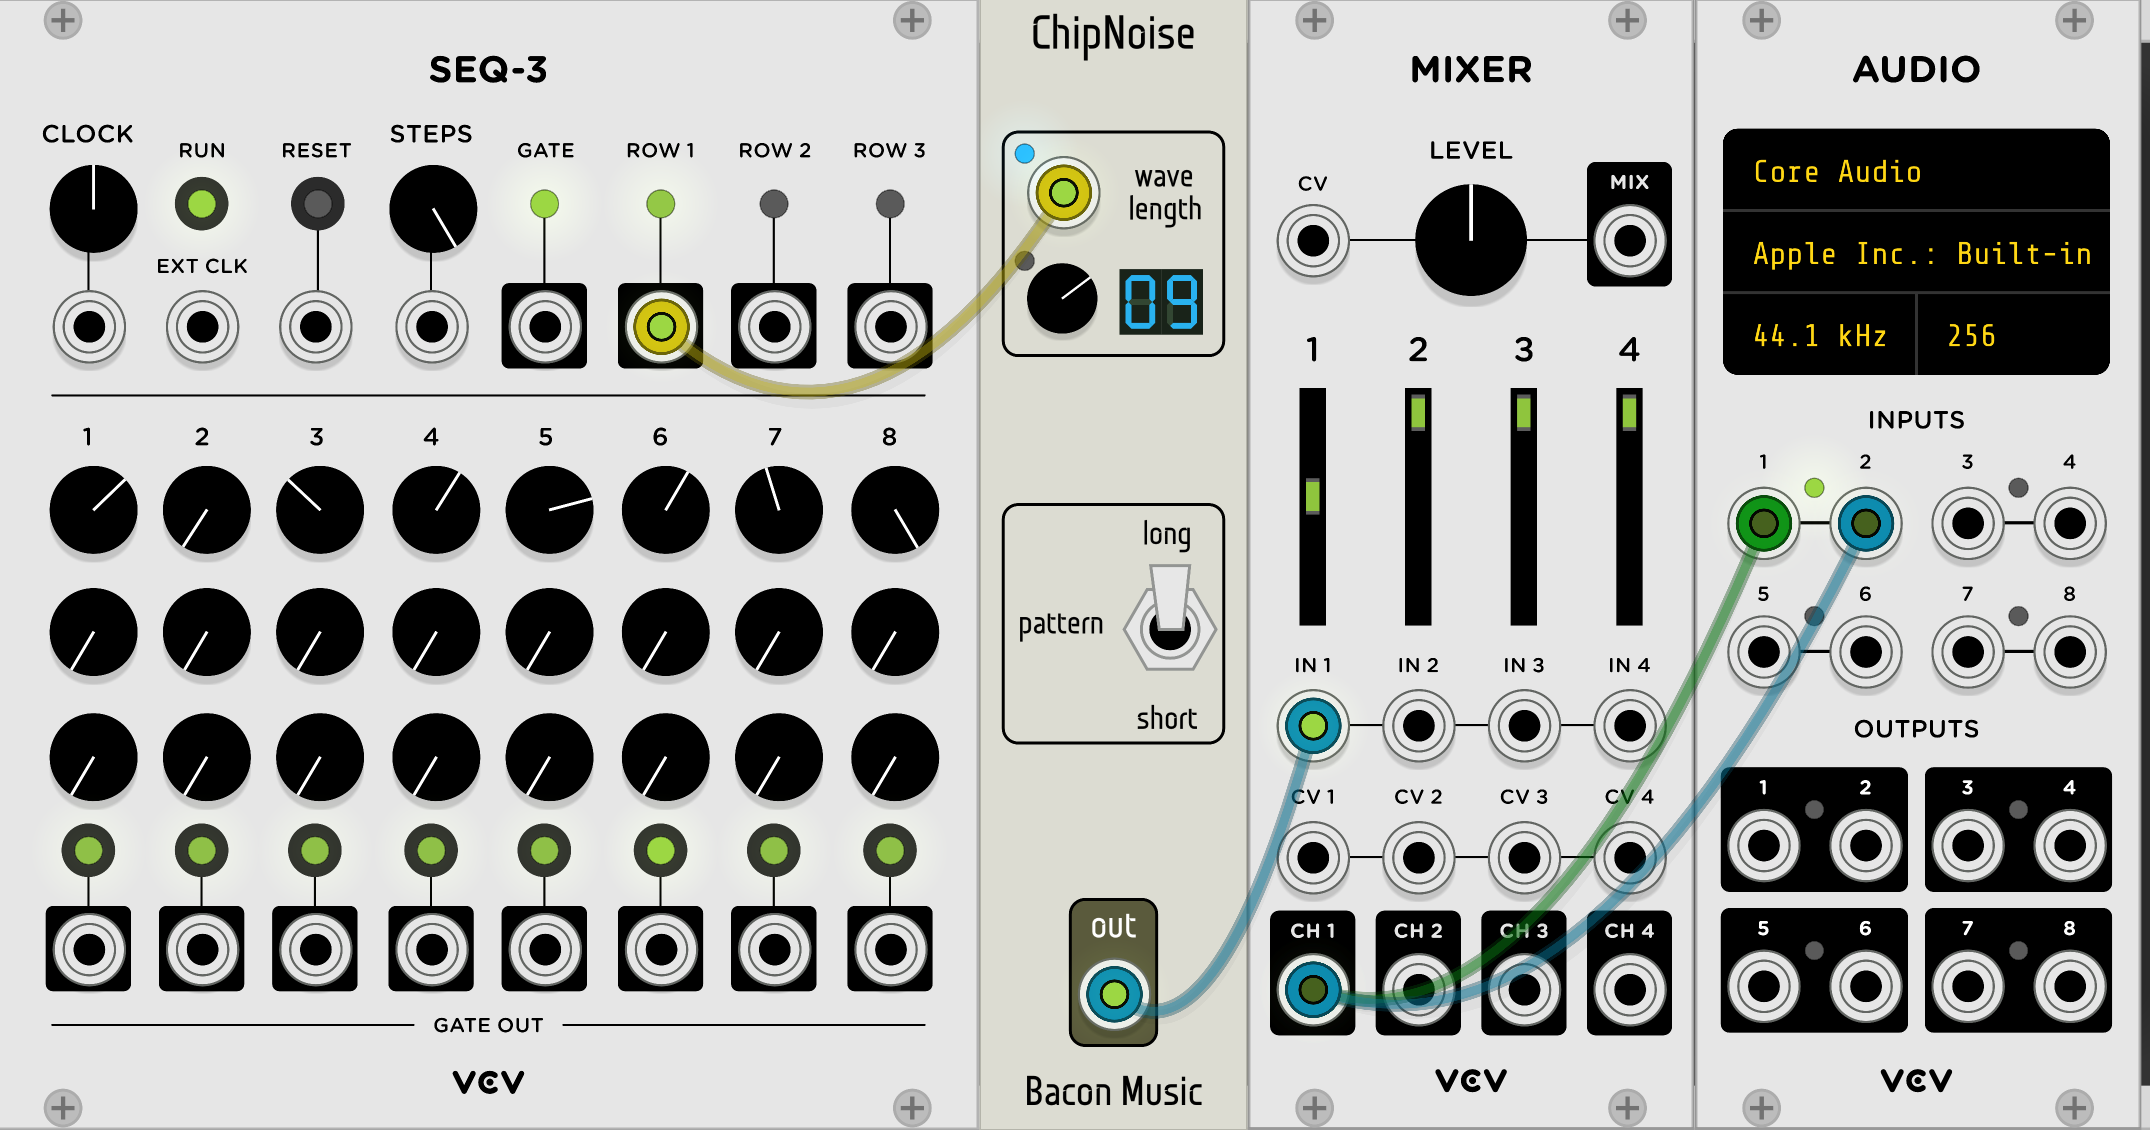
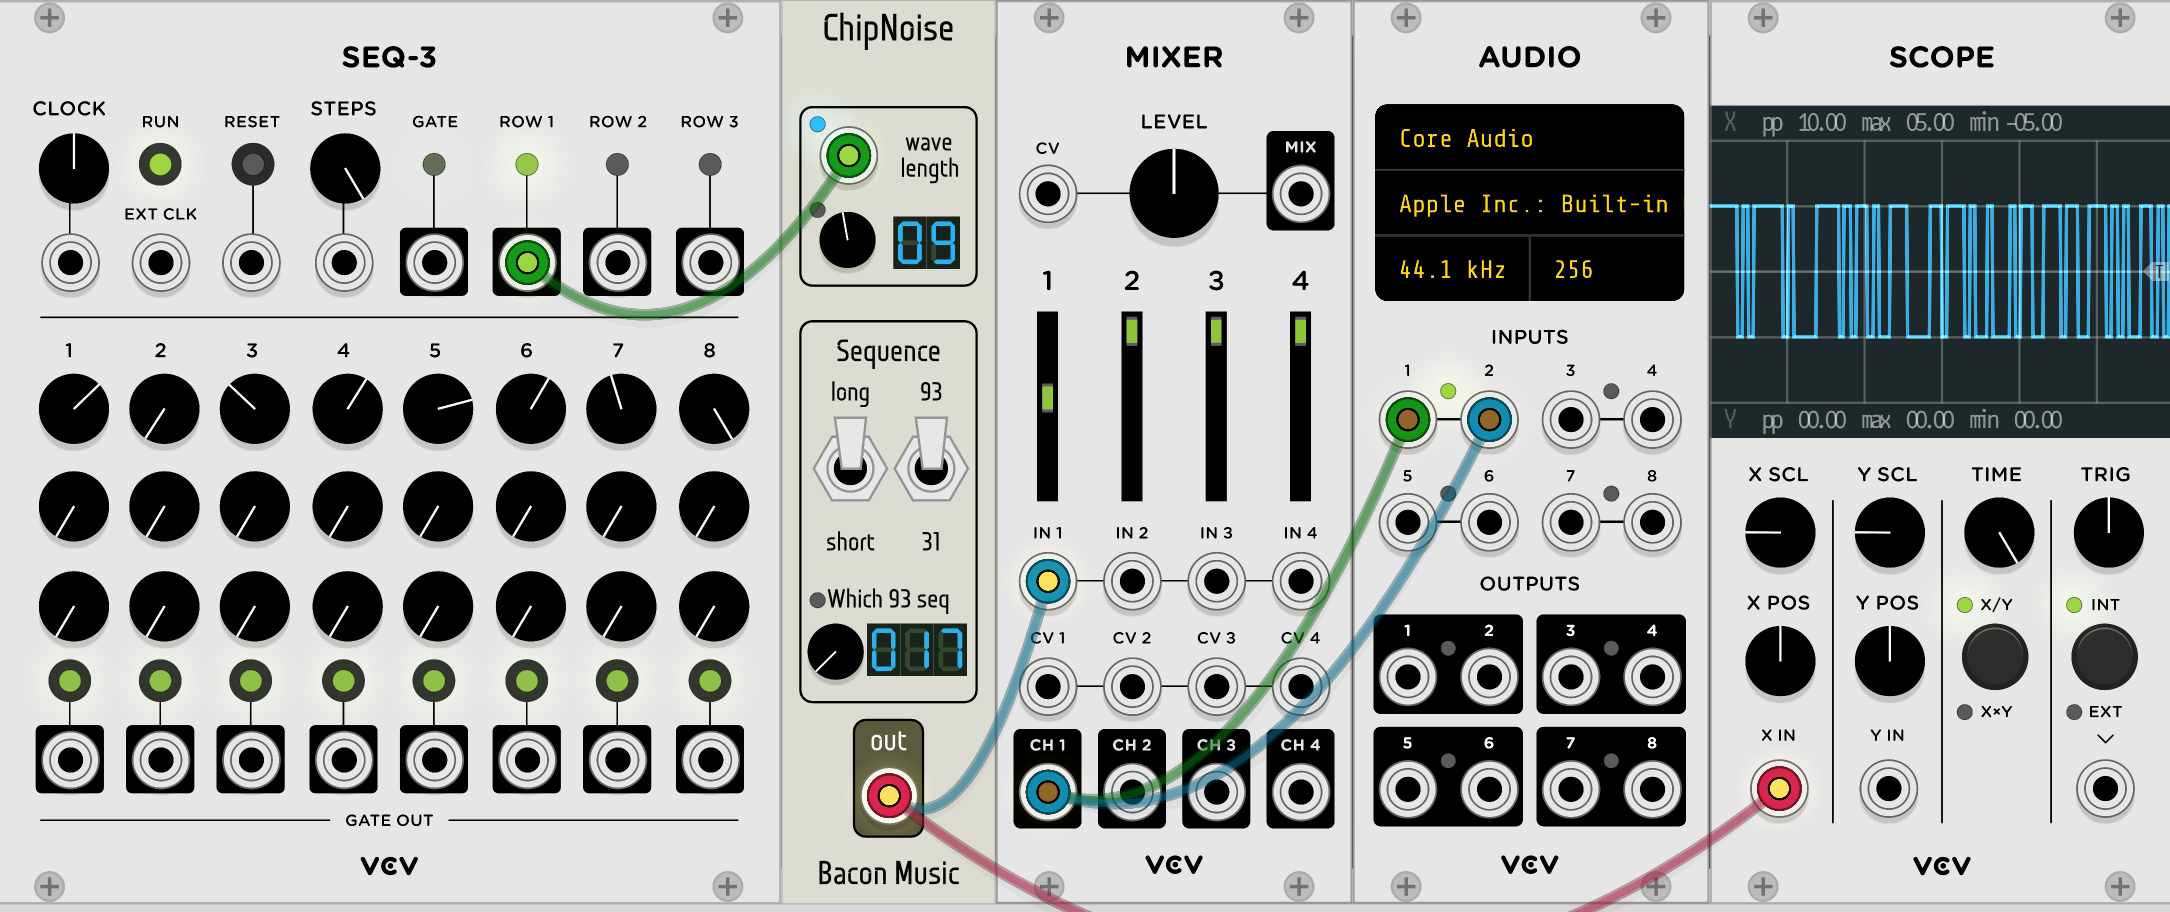
Updated documentation for ChipNoise

diff --git a/README.md b/README.md
@@ -118,14 +118,22 @@ patch runs it mixed along with a VCO-1 so I could check tuning. Here's how I did
 
 ChipNoise implements the NES noise generator without the NES envelope. It would have been
 impossible to implement without the careful description of the noise algorithm at
-[the NES Dev WIKI](http://wiki.nesdev.com/w/index.php/APU_Noise).
+[the NES Dev WIKI](http://wiki.nesdev.com/w/index.php/APU_Noise). I also appreciate the
+[lengthy conversation with @alto77](https://github.com/baconpaul/BaconPlugs/issues/6) which helped
+identify a bug in the 0.6.1 release and add a new feature.
 
 The NES noise system has 16 different frequencies; and two modes. The two modes generate either
-a long pseudo-random pattern or (one of two) short pseudo-random patterns.
+a long pseudo-random pattern or a set of short pseudo-random patterns. That long pattern is just 
+long, but the short patterns are either 93 or 31 bits long. There are 351 distinct 93 bit patterns
+and a single 31 bit pattern. 
 
-The module just outputs the noise with a switch to change the mode and a knob to select the
-frequency. The knob is also exposed to CV. And yes, it really sounds like an NES. Here's a simple
-patch.
+The sequence controls allow you to pick these patterns. If set at "long" then you choose the longest
+pattern. If set at short, then either you have the 31 long pattern or one of the 93 patterns. Which of
+the 93 patterns you pick is chosen by the "which 93 seq" knob. 
+
+This is a lot of information. If you just play with it you'll get the idea.
+
+Here's a simple patch.
 
 <a href="https://baconpaul.github.io/audio/ChipNoise.mp3">
 <img src="docs/ChipNoise.png" alt="Example ChipNoise Patch">

diff --git a/docs/release_notes/future_releases.md b/docs/release_notes/future_releases.md
@@ -1,14 +1,14 @@
 Things for future releases perhaps?
 
 Plugins:
-*  LSFR more general noise maker (sort of started in the ChipSym)
-*  CleverClipper (branch "CleverClipper" already exists on mac and in dbox)
-*  Lilypond or ABC-like music phrase generator
+* LSFR more general noise maker (sort of started in the ChipSym)
+* CleverClipper (branch "CleverClipper" already exists on mac and in dbox)
+* Lilypond or ABC-like music phrase generator
 * This paper looks fun https://pdfs.semanticscholar.org/68fa/415703af07042d4301ac6cb3722c87f5bc43.pdf
+* Karplus Strong Mono
   
 Widgets:
 *  Select from N-things rotary knob (like on my gibson)
-*  Text widget (look back in git for that dot matrix stuff, actually)
 
 
 

diff --git a/docs/release_notes/release_v0.6.2.md b/docs/release_notes/release_v0.6.2.md
@@ -6,6 +6,7 @@
   * Fixed an important bit length bug that @alto777 found. 
   * Added control of short sequence selection; either the 31 long or which of the 93s.
   * For more, see https://github.com/baconpaul/BaconPlugs/issues/6
+  * Update doc for ChipNoise
 
 * QuantEyes
   * Don't trigger lights if there is no input
@@ -14,11 +15,9 @@
 * As well as a single digit, there's a multi digit sevent segment light. Take a look at ChipNoise for how to use it.
 
 (required)
-* Update doc for ChipNoise
 
 (aspirational)
 * gates in quanteyes
 * Karplus Strong Poly
-* Karplus Strong Mono
 * Polyrythgmic Metrocnome Clock
 * Add appropriate BaconHelpButtons to everything
